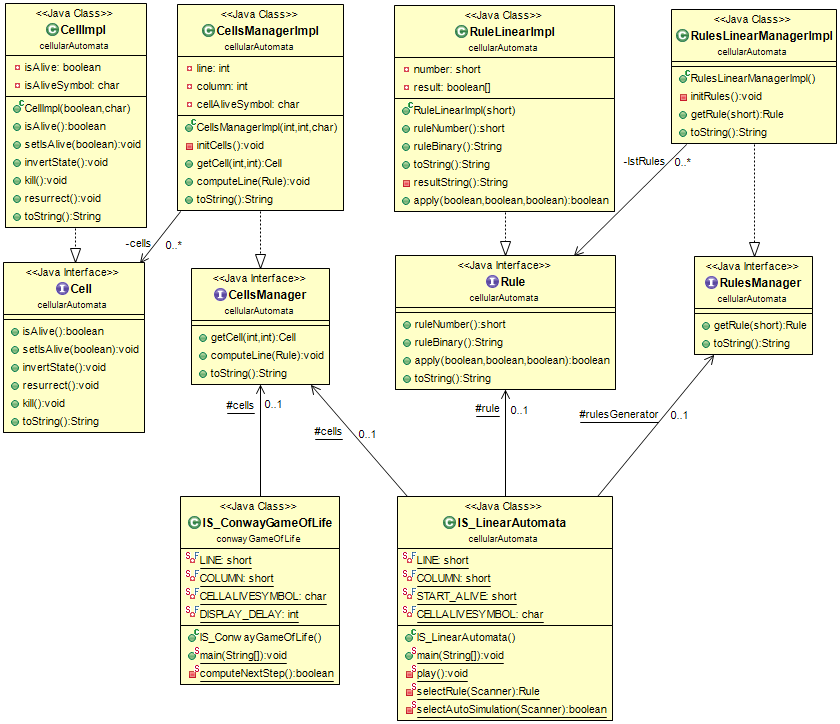
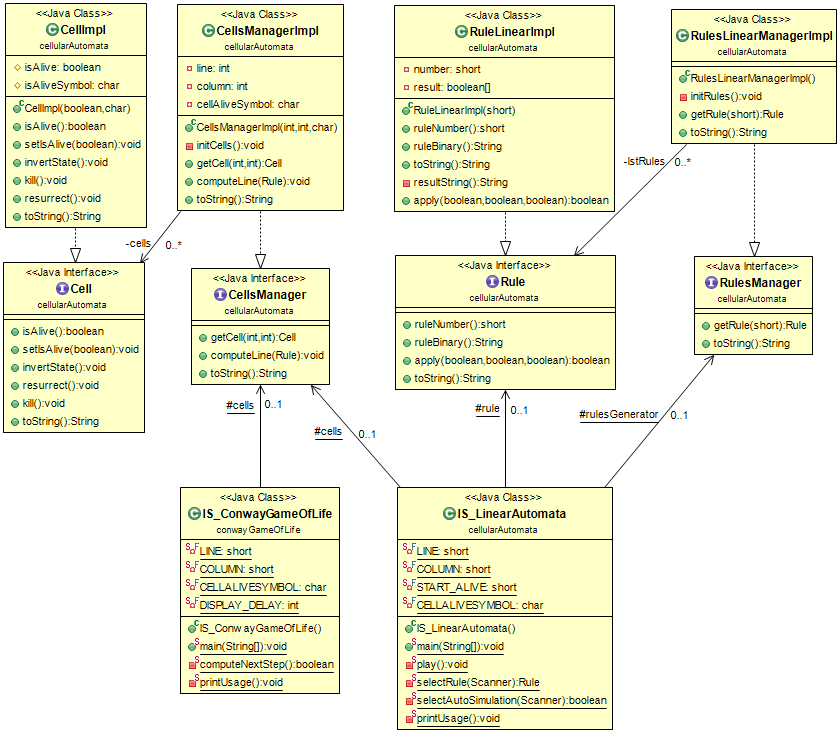
langton's ant configurable
usage added

diff --git a/src/langtonAnt/IS_LangtonAnt.java b/src/langtonAnt/IS_LangtonAnt.java
@@ -8,26 +8,28 @@ public class IS_LangtonAnt {
 	private static final short ANTX = 50;
 	private static final char ANTCHAR = '#';
 	
-	private static final String RULE = "LR";
-	
 	private static final int DISPLAY_DELAY = 10; 	
 	
-	private static final int ITERATION = 11000; 	
-	
+	private static int iteration = 11000; 	
+	private static String rule = "LR";
 	protected static LangtonCellsManager cells;
 	
 	public static void main(String[] args){
-		cells = new LangtonCellsManagerImpl(LINE, COLUMN, ANTCHAR, ANTY, ANTX, RULE);
+		printUsage();
+		argsManager(args);
 		
+		cells = new LangtonCellsManagerImpl(LINE, COLUMN, ANTCHAR, ANTY, ANTX, rule);
 		//init antCellAsDifferent
 		cells.getAntCell().nextState();
 		
+		//run parameters
+		System.out.println("Run parameters : " + iteration + " iterations with rule \"" + rule + "\".");
 		
 		int iterationCount = 0;
-		System.out.println("Iteration n°" + iterationCount + " =====================================================================");
+		System.out.println("\nIteration n°" + iterationCount + " =====================================================================");
 		System.out.println(cells.toString());
 		
-		while (++iterationCount < ITERATION){
+		while (++iterationCount <= iteration){
 			try {
 				Thread.sleep(DISPLAY_DELAY);
 			} catch (InterruptedException e) {
@@ -42,6 +44,44 @@ public class IS_LangtonAnt {
 			System.out.println("Iteration n°" + iterationCount+ " =====================================================================");
 			System.out.println(cells.toString());
 		}
+	}
+
+	private static void printUsage() {
+		System.out.println("\n              =====================================================");
+		System.out.println("              |=================| Langton's Ant |=================|");
+		System.out.println("              |===================================================|");
+		System.out.println("              |                                                   |");
+		System.out.println("              | usage   : program rule iteration                  |");
+		System.out.println("              | default : langtonAnt.IS_LangtonAnt " + rule + " " + iteration + "       |");
+		System.out.println("              |                                                   |");
+		System.out.println("              |===================================================|");
+		System.out.println("              |===========================| By : Timothée SOLLAUD |");
+		System.out.println("              =====================================================\n");
+	}
+
+	private static boolean argsManager(String[] args) {
+		boolean argsFound = false;
+		String regexArgRule = "^[L|R]*$";
+		String regexArgIteration = "^\\d+$";
+		if (args.length>0){
+			if (args[0].matches(regexArgRule)){
+				rule = args[0];
+				argsFound = true;
+			}else if (args[0].matches(regexArgIteration)){
+				iteration = Integer.parseInt(args[0]);
+				argsFound = true;
+			}
+		}
+		if(args.length>1){
+			if (args[1].matches(regexArgRule)){
+				rule = args[1];
+				argsFound = true;
+			}else if (args[1].matches(regexArgIteration)){
+				iteration = Integer.parseInt(args[1]);
+				argsFound = true;
+			}
+		}
+		return argsFound;
 	}
 	
 }

diff --git a/src/cellularAutomata/IS_LinearAutomata.java b/src/cellularAutomata/IS_LinearAutomata.java
@@ -16,7 +16,8 @@ public class IS_LinearAutomata {
 	public IS_LinearAutomata() {}
 	
 	
-	public static void main(String[] args){;
+	public static void main(String[] args){
+		printUsage();
 		rulesGenerator= new RulesLinearManagerImpl();
 		//System.out.println(rulesGenerator.toString());
 		
@@ -34,6 +35,7 @@ public class IS_LinearAutomata {
 			do{
 				rule = selectRule(sc);
 				play();
+				printUsage();
 			}while (true);
 			//===================================
 		}
@@ -99,5 +101,20 @@ public class IS_LinearAutomata {
 		}while (error);
 		
 		return isAutoSimulation;
+	}
+	
+	private static void printUsage() {
+		System.out.println("\n              =====================================================");
+		System.out.println("              |================| Linear automata |================|");
+		System.out.println("              |===================================================|");
+		System.out.println("              |                                                   |");
+		System.out.println("              | Some remarkable rules :                           |");
+		System.out.println("              |     30 -> chaos        126 -> Sierpinksi          |");
+		System.out.println("              |     57 -> Pyramid      129 -> Sierpinksi negative |");
+		System.out.println("              |    110 -> emergence    225 -> Nested pattern      |");
+		System.out.println("              |                                                   |");
+		System.out.println("              |===================================================|");
+		System.out.println("              |===========================| By : Timothée SOLLAUD |");
+		System.out.println("              =====================================================\n");
 	}
 }

diff --git a/src/conwayGameOfLife/IS_ConwayGameOfLife.java b/src/conwayGameOfLife/IS_ConwayGameOfLife.java
@@ -15,7 +15,8 @@ public class IS_ConwayGameOfLife {
 	protected static CellsManager cells;
 	
 	
-	public static void main(String[] args){;
+	public static void main(String[] args){
+		printUsage();
 		cells = new CellsManagerImpl(LINE, COLUMN, CELLALIVESYMBOL);
 		
 		for(int l=0; l<LINE; l++)
@@ -76,5 +77,12 @@ public class IS_ConwayGameOfLife {
 		}
 		cells = computedCells;
 		return stateChanged;
+	}
+	private static void printUsage() {
+		System.out.println("\n              =====================================================");
+		System.out.println("              |=============| Conway's game of life |=============|");
+		System.out.println("              |===================================================|");
+		System.out.println("              |===========================| By : Timothée SOLLAUD |");
+		System.out.println("              =====================================================\n");
 	}
 }
